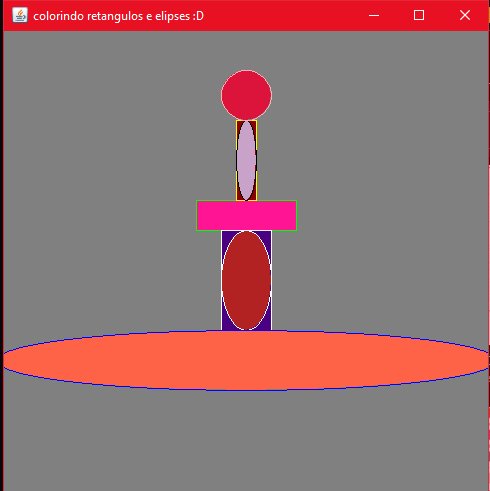
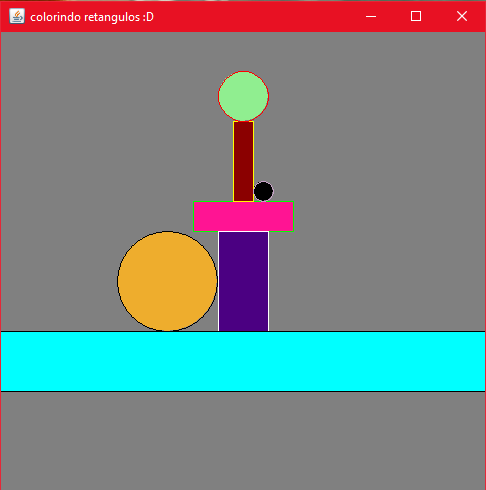
atualizando

Changed region(s): [[0.0, 0.0, 1.0, 1.0], [0.9259, 0.0, 0.9568, 0.0612], [0.8333, 0.0, 0.8642, 0.0612]]

diff --git a/07 - 2.2.2/RectEllipseApp.java b/07 - 2.2.2/RectEllipseApp.java
@@ -5,22 +5,14 @@ import java.awt.geom.Ellipse2D;
 import java.awt.geom.Ellipse2D.Double;
 
 class RectEllipseApp {
-    public static void main (String[] args) {
+    public static void main (String[] args){
         RectEllipseFrame frame = new RectEllipseFrame();
         frame.setVisible(true);
     }
 }
-
 class RectEllipseFrame extends JFrame {
-    Rect r1;
-    Rect r2;
-    Rect r3;
-    Rect r4;
-    Ellipse e1;
-    Ellipse e2;
-    Ellipse e3;
-    Ellipse e4;
-    Ellipse e5;
+    Rect r1, r2, r3, r4;
+    Ellipse e1, e2, e3;
 
     RectEllipseFrame () {
         this.addWindowListener (
@@ -30,35 +22,32 @@ class RectEllipseFrame extends JFrame {
                 }
             }
         );
-         this.setTitle("colorindo retangulos e elipses :D");
+        this.setTitle("colorindo retangulos :D");
         this.setSize(500, 500);
         this.r1 = new Rect(200,200, 100,30);
         this.r2 = new Rect(225,230, 50,100);
-        this.r3 = new Rect(240,120, 20,80);
-        this.e1 = new Ellipse(0,330, 500,60);
-        this.e2 = new Ellipse(225,230, 50,100);
-        this.e3 = new Ellipse(0,330, 500,60);
-        this.e4 = new Ellipse(240,120, 20,80);
-        this.e5 = new Ellipse(225, 70, 50, 50);
+        this.r3 = new Rect(0,330, 500,60);
+        this.r4 = new Rect(240,120, 20,80);
+        this.e1 = new Ellipse(225, 70, 50, 50);
+        this.e2 = new Ellipse(260, 180, 20, 20);
+        this.e3 = new Ellipse(124, 230, 100, 100);
         this.getContentPane().setBackground(Color.gray);
     }
 
     public void paint (Graphics g) {
         super.paint(g);
-        this.r1.paint(g);
-        this.r2.paint2(g);
-        this.r3.paint3(g);
-        this.e1.paint4(g);
-        this.e2.paint5(g);
-        this.e3.paint6(g);
-        this.e4.paint7(g);
-        this.e5.paint8(g);
+        this.r1.paint(g, Color.green, new Color(255,20,147));
+        this.r2.paint(g, Color.white, new Color(75,0,130));
+        this.r3.paint(g, Color.black, new Color(0,255,255));
+        this.r4.paint(g, Color.yellow, new Color(139,0,0));
+        this.e1.paint(g, new Color(255,0,0), new Color(144, 238, 144));
+        this.e2.paint(g, new Color(200,162,200), new Color(0, 0, 0));
+        this.e3.paint(g, new Color(0, 0, 0), new Color(238, 173, 45));
     }
 }
 
 class Rect {
-    int x, y;
-    int w, h;
+    int x, y, w, h;
 
     Rect (int x, int y, int w, int h) {
         this.x = x;
@@ -67,89 +56,39 @@ class Rect {
         this.h = h;
     }
 
-    void paint (Graphics g) {
-        Graphics2D g2d = (Graphics2D) g;
-        
-        g.setColor(new Color(255,20,147));
-        g2d.fillRect(this.x, this.y, this.w, this.h);
-        g2d.setPaint(Color.green);
-        g2d.drawRect(this.x,this.y, this.w,this.h);
-    }  
-
-    void paint2 (Graphics g) {
-        Graphics2D g2d = (Graphics2D) g;
-        
-        g.setColor(new Color(75,0,130));
-        g2d.fillRect(this.x, this.y, this.w, this.h);
-        g2d.setPaint(Color.white);
-        g2d.drawRect(this.x,this.y, this.w,this.h);
+    void print(){
+        System.out.format("Tamanho do retangulo equivale a: (%d, %d), e se encontra nas posicoes: (%d, %d).\n", this.w, this.h, this.x, this.y);
     }
-           
-    void paint3 (Graphics g) {
+
+    void paint (Graphics g, Color borda, Color dentro) {
         Graphics2D g2d = (Graphics2D) g;
-            
-        g.setColor(new Color(139,0,0));
+        g.setColor(dentro);
         g2d.fillRect(this.x, this.y, this.w, this.h);
-        g2d.setPaint(Color.yellow);
-        g2d.drawRect(this.x,this.y, this.w,this.h);    
+        g2d.setColor(borda);
+        g2d.drawRect(this.x, this.y, this.w, this.h);
+        
     }
 }
-
 class Ellipse {
-    int x, y;
-    int w, h;
+    int x, y, w, h;
 
     Ellipse (int x, int y, int w, int h) {
         this.x = x;
         this.y = y;
         this.w = w;
         this.h = h;
+}
+
+    void print(){
+        System.out.format("Tamanho das elipses equivale a: (%d, %d), e se encontra nas posicoes: (%d, %d).\n", this.w, this.h, this.x, this.y);
     }
 
-    void paint4 (Graphics g) {
+    void paint (Graphics g, Color borda, Color dentro) {
         Graphics2D g2d = (Graphics2D) g;
-        
-        g.setColor(new Color(255,0,0));
+        g.setColor(dentro);
         g2d.fillOval(this.x, this.y, this.w, this.h);
-        g2d.setPaint(Color.green);
-        g2d.drawOval(this.x,this.y, this.w,this.h);
-    }  
-
-    void paint5 (Graphics g) {
-        Graphics2D g2d = (Graphics2D) g;
-        
-        g.setColor(new Color(178,34,34));
-        g2d.fillOval(this.x, this.y, this.w, this.h);
-        g2d.setPaint(Color.white);
-        g2d.drawOval(this.x,this.y, this.w,this.h);
+        g2d.setColor(borda);
+        g2d.drawOval(this.x, this.y, this.w, this.h);
     }
-        
-    void paint6 (Graphics g) {
-        Graphics2D g2d = (Graphics2D) g;
-            
-        g.setColor(new Color(255,99,71));
-        g2d.fillOval(this.x, this.y, this.w, this.h);
-        g2d.setPaint(Color.blue);
-        g2d.drawOval(this.x,this.y, this.w,this.h);    
-    }
-
-    void paint7 (Graphics g) {
-        Graphics2D g2d = (Graphics2D) g;
-            
-        g.setColor(new Color(200,162,200));
-        g2d.fillOval(this.x, this.y, this.w, this.h);
-        g2d.setPaint(Color.black);
-        g2d.drawOval(this.x,this.y, this.w,this.h);    
-    }
-
-    void paint8 (Graphics g) {
-        Graphics2D g2d = (Graphics2D) g;
-            
-        g.setColor(new Color(220, 20, 60));
-        g2d.fillOval(this.x, this.y, this.w, this.h);
-        g2d.setPaint(Color.pink);
-        g2d.drawOval(this.x,this.y, this.w,this.h);    
-    }
-
 
 }

diff --git a/06 - 2.2.1/painting.java b/06 - 2.2.1/painting.java
@@ -9,10 +9,7 @@ class painting {
     }
 }
 class PaintFrame extends JFrame {
-    Rect r1;
-    Rect r2;
-    Rect r3;
-    Rect r4;
+    Rect r1, r2, r3, r4;
 
     PaintFrame () {
         this.addWindowListener (
@@ -33,16 +30,15 @@ class PaintFrame extends JFrame {
 
     public void paint (Graphics g) {
         super.paint(g);
-        this.r1.paint(g);
-        this.r2.paint2(g);
-        this.r3.paint3(g);
-        this.r4.paint4(g);
+        this.r1.paint(g, Color.green, new Color(255,20,147));
+        this.r2.paint(g, Color.white, new Color(75,0,130));
+        this.r3.paint(g, Color.black, new Color(0,255,255));
+        this.r4.paint(g, Color.yellow, new Color(139,0,0));
     }
 }
 
 class Rect {
-    int x, y;
-    int w, h;
+    int x, y, w, h;
 
     Rect (int x, int y, int w, int h) {
         this.x = x;
@@ -56,39 +52,12 @@ class Rect {
         this.x, this.y, this.w, this.h);
     }
 
-    void paint (Graphics g) {
+    void paint (Graphics g, Color borda, Color dentro){
         Graphics2D g2d = (Graphics2D) g;
-        
-        g.setColor(new Color(255,20,147));
+        g2d.setColor(dentro);
         g2d.fillRect(this.x, this.y, this.w, this.h);
-        g2d.setPaint(Color.green);
-        g2d.drawRect(this.x,this.y, this.w,this.h);
+        g2d.setColor(borda);
+        g2d.drawRect(this.x, this.y, this.w, this.h);
+    
     }  
-
-    void paint2 (Graphics g) {
-        Graphics2D g2d = (Graphics2D) g;
-        
-        g.setColor(new Color(75,0,130));
-        g2d.fillRect(this.x, this.y, this.w, this.h);
-        g2d.setPaint(Color.white);
-        g2d.drawRect(this.x,this.y, this.w,this.h);
-    }
-        
-    void paint3 (Graphics g) {
-        Graphics2D g2d = (Graphics2D) g;
-            
-        g.setColor(new Color(0,255,255));
-        g2d.fillRect(this.x, this.y, this.w, this.h);
-        g2d.setPaint(Color.black);
-        g2d.drawRect(this.x,this.y, this.w,this.h);    
-    }
-
-    void paint4 (Graphics g) {
-        Graphics2D g2d = (Graphics2D) g;
-            
-        g.setColor(new Color(139,0,0));
-        g2d.fillRect(this.x, this.y, this.w, this.h);
-        g2d.setPaint(Color.yellow);
-        g2d.drawRect(this.x,this.y, this.w,this.h);    
-    }
 }
